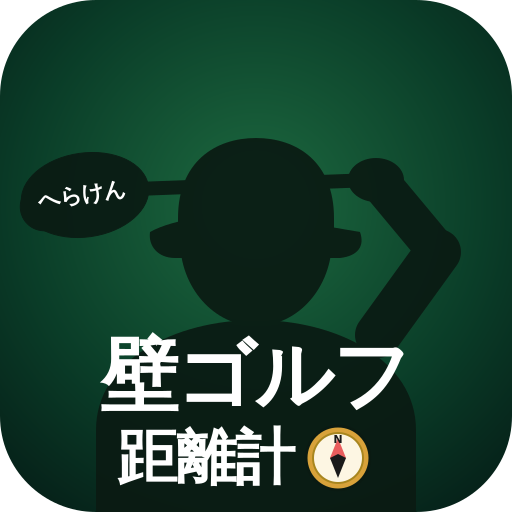
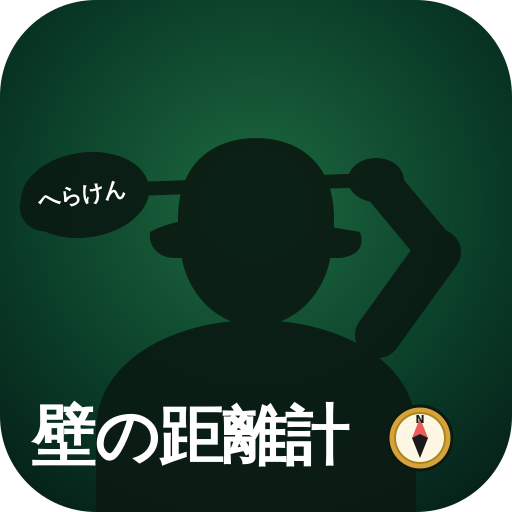
feat: アプリ名を「壁の距離計🧭」(1行) に変更
- メタタイトル / iOSホーム画面名 / マニフェスト名を全て統一
- 画面UIの常時ブランドバッジ表示を更新
- アイコン下部のテキストも「壁ゴルフ / 距離計」の2行から
  「壁の距離計」+ コンパスアイコンの1行レイアウトに刷新

https://claude.ai/code/session_01NYx1Nb1rqFaJq58TZqeUTk

Changed region(s): [[0.0625, 0.6562, 0.7188, 0.9688], [0.75, 0.7812, 0.9062, 0.9375], [0.6562, 0.6562, 0.7812, 0.8125]]

diff --git a/src/app/layout.tsx b/src/app/layout.tsx
@@ -3,13 +3,13 @@ import "./globals.css";
 import { ServiceWorkerRegister } from "./sw-register";
 
 export const metadata: Metadata = {
-  title: "壁ゴルフ距離計",
+  title: "壁の距離計🧭",
   description: "ゴルフ用GPS距離計＆スコアトラッカー",
   manifest: "/manifest.webmanifest",
   appleWebApp: {
     capable: true,
     statusBarStyle: "black-translucent",
-    title: "壁ゴルフ距離計",
+    title: "壁の距離計🧭",
   },
 };
 
@@ -26,7 +26,7 @@ export default function RootLayout({ children }: { children: React.ReactNode }) 
   return (
     <html lang="ja">
       <body>
-        <div className="app-brand" aria-label="壁ゴルフ距離計">壁ゴルフ距離計🧭</div>
+        <div className="app-brand" aria-label="壁の距離計">壁の距離計🧭</div>
         {children}
         <ServiceWorkerRegister />
       </body>
